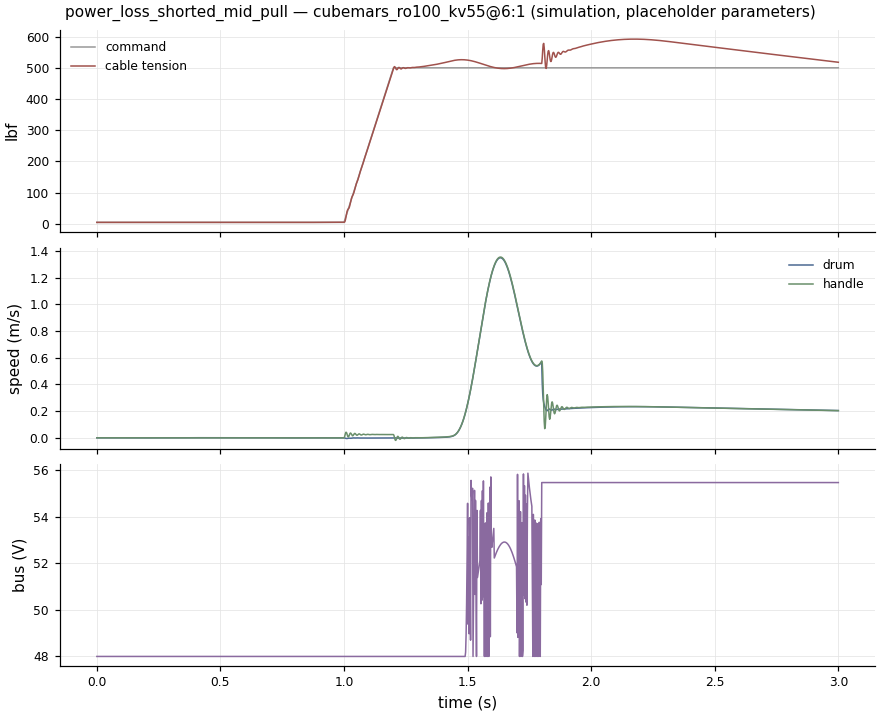
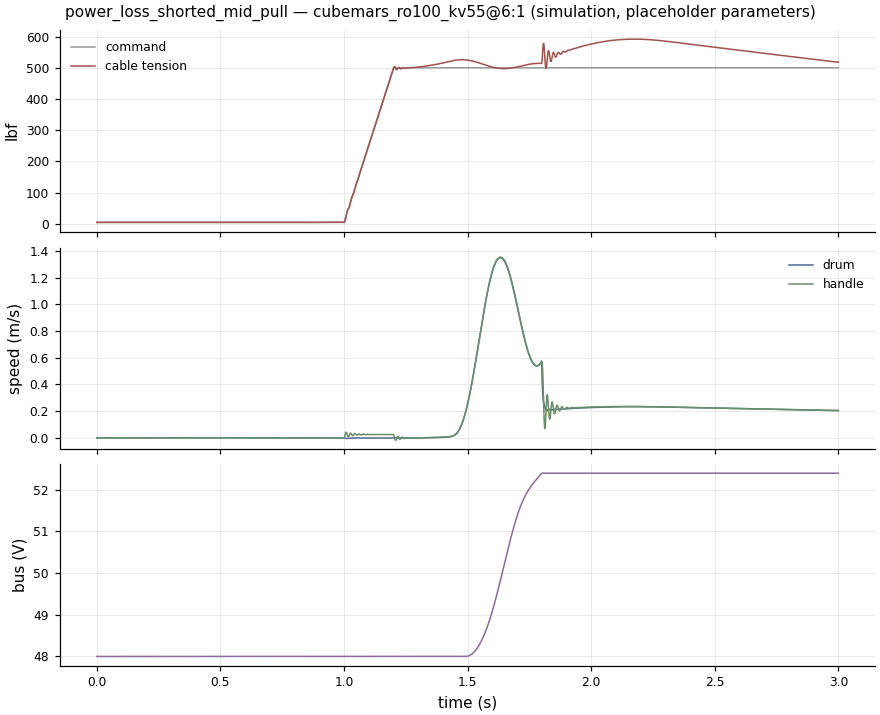
Iteration 2: 1 kW supply + 2 F supercapacitor buffer
A single RO100 at 500 lbf draws ~480 W mean (copper loss), so the
supply cannot shrink much below that. The buffer's value is tracking
and absorbing regeneration: 1 kW + 2 F keeps the bus at 42-56 V over a
full heavy set and cuts 500 lbf tracking error from 7.6% to 1.6%.
H-13 raised to S3 (about 3.1 kJ stored); buffer added to the BOM as
unpriced. Sweep results are recorded in ADR-001.

diff --git a/tests/test_dynamics.py b/tests/test_dynamics.py
@@ -59,11 +59,17 @@ def test_shorted_braking_force_scales_with_speed(setup):
 
 def test_bus_rises_without_dump_resistor(setup):
     inputs, plant = setup
-    m_with = run(dataclasses.replace(inputs.dynamics.cases[-1]), _traj_pull(), plant, inputs.dynamics)["metrics"]
-    m_without = run(Case("nd", "x", 3.0, "no_dump_resistor", 0.0, True), _traj_pull(), plant,
-                    inputs.dynamics)["metrics"]
-    assert m_without["peak_bus_v"] > inputs.dynamics.overvoltage_v
-    assert m_with["peak_bus_v"] <= inputs.dynamics.dump_on_v + 1.0
+    p = dataclasses.replace(inputs.dynamics, bus_c=0.002)  # plain bus capacitors, no buffer
+    m_with = run(dataclasses.replace(inputs.dynamics.cases[-1]), _traj_pull(), plant, p)["metrics"]
+    m_without = run(Case("nd", "x", 3.0, "no_dump_resistor", 0.0, True), _traj_pull(), plant, p)["metrics"]
+    assert m_without["peak_bus_v"] > p.overvoltage_v
+    assert m_with["peak_bus_v"] <= p.dump_on_v + 1.0
+
+
+def test_buffer_absorbs_regeneration(setup):
+    inputs, plant = setup
+    m = run(Case("nd", "x", 3.0, "no_dump_resistor", 0.0, True), _traj_pull(), plant, inputs.dynamics)["metrics"]
+    assert m["peak_bus_v"] < inputs.dynamics.overvoltage_v  # 2 F buffer holds a few reps of regen
 
 
 def _traj_pull():

diff --git a/reports/hazards.md b/reports/hazards.md
@@ -2,25 +2,25 @@
 
 > Generated by `make report`. Do not edit by hand. These are abstract simulation inputs and idealised metrics, not certification, not proof of feasibility, and not exercise or human-use guidance.
 
-Input hash: `d95b027a91dc2e13`
+Input hash: `32dc0bb8c4a8f25b`
 
 Source of truth: `requirements/hazards.yaml`. Severity levels are **proposed** qualitative categories (S1 nuisance … S4 severe or irreversible injury possible) for independent review. Evidence values come from the dynamic model for `cubemars_ro100_kv55@6:1` (placeholder parameters, A-016). Simulated mitigations are simulation-only; none is a validated safety function. **No human-loading experiment is authorized.**
 
 | ID | Hazard | Severity | Mitigation channel | Evidence | Gap |
 |---|---|---|---|---|---|
-| H-01 | Handle release under load (slingshot) | S4 | mechanical | release_at_500lbf.handle_end_stop_speed_m_s = 5.49; release_at_500lbf_speed_limit.handle_end_stop_speed_m_s = 5.49; release_at_500lbf.peak_tension_lbf = 3871 | Firmware measures cannot remove the stored cable energy, so a mechanical arrestor is required and unmodelled. The arm surrogate and cable stiffness are placeholders. |
+| H-01 | Handle release under load (slingshot) | S4 | mechanical | release_at_500lbf.handle_end_stop_speed_m_s = 5.49; release_at_500lbf_speed_limit.handle_end_stop_speed_m_s = 5.49; release_at_500lbf.peak_tension_lbf = 7971 | Firmware measures cannot remove the stored cable energy, so a mechanical arrestor is required and unmodelled. The arm surrogate and cable stiffness are placeholders. |
 | H-06 | Stuck-on or runaway torque (controller crash, wrong sign) | S4 | independent-hardware | not simulated | Not simulated yet. Needs a fault-injection case with frozen or inverted torque. |
-| H-09 | Cable or termination failure | S4 | mechanical | release_at_500lbf.peak_tension_lbf = 3871 | The rope is not selected, and the fatigue and bend-radius analysis is not done. |
+| H-09 | Cable or termination failure | S4 | mechanical | release_at_500lbf.peak_tension_lbf = 7971 | The rope is not selected, and the fatigue and bend-radius analysis is not done. |
 | H-10 | Anchor or mount failure | S4 | mechanical | not simulated | Substrate and anchor types are undefined. Snap loads exceed the static stall case. |
 | H-12 | Entanglement or pinch points | S4 | mechanical | not simulated | The enclosure is not designed. |
-| H-02 | Load cell fails low (stuck at zero) | S3 | independent-hardware | load_cell_stuck_zero.peak_tension_after_fault_lbf = 538; load_cell_stuck_zero.peak_hand_deviation_after_fault_m = 0.0844; load_cell_stuck_zero_monitored.peak_hand_deviation_after_fault_m = 1.16 | The disagreement monitor and the release detector conflict. A fault-handling policy that tells a sensor fault from a release is not yet defined. |
+| H-02 | Load cell fails low (stuck at zero) | S3 | independent-hardware | load_cell_stuck_zero.peak_tension_after_fault_lbf = 612; load_cell_stuck_zero.peak_hand_deviation_after_fault_m = 0.248; load_cell_stuck_zero_monitored.peak_hand_deviation_after_fault_m = 1.17 | The disagreement monitor and the release detector conflict. A fault-handling policy that tells a sensor fault from a release is not yet defined. |
 | H-03 | Loss of mains power mid-pull | S3 | independent-hardware | power_loss_open_mid_pull.peak_hand_deviation_after_fault_m = 1.16; power_loss_shorted_mid_pull.peak_hand_deviation_after_fault_m = 0.206; power_loss_shorted_mid_pull.peak_tension_after_fault_lbf = 592 | Shorted-phase braking ignores winding inductance (upper bound). Relay timing and contact ratings are unknown. |
-| H-04 | Regenerative overvoltage | S3 | independent-hardware | regen_no_dump_resistor.time_to_overvoltage_ms = 304; regen_no_dump_resistor.peak_bus_v = 965; tracking_fast_reversal.peak_bus_v = 56 | Fast reversals peak just under the 60 V line with the proposed resistor, so the margin is thin. Resistor thermal rating is not sized. |
-| H-05 | Supply undervoltage, torque dropout | S3 | independent-hardware | tracking_heavy_tempo.min_bus_v = 39.2; regen_with_dump_resistor.min_bus_v = 48 | Supply and buffer sizing are undecided, and the derating policy is undefined. |
+| H-04 | Regenerative overvoltage | S3 | independent-hardware | regen_no_dump_resistor.time_to_overvoltage_ms = —; regen_no_dump_resistor.peak_bus_v = 56.9; tracking_fast_reversal.peak_bus_v = 52.5 | Fast reversals peak just under the 60 V line with the proposed resistor, so the margin is thin. Resistor thermal rating is not sized. |
+| H-05 | Supply undervoltage, torque dropout | S3 | independent-hardware | tracking_heavy_tempo.min_bus_v = 42.2; regen_with_dump_resistor.min_bus_v = 48 | Supply and buffer sizing are undecided, and the derating policy is undefined. |
 | H-07 | Encoder or speed-sensor failure | S3 | firmware | not simulated | Not simulated yet. |
+| H-13 | Stored electrical energy | S3 | independent-hardware | not simulated | Bleed time, pre-charge, fusing and balancing are not designed. The buffer is sized in dynamics only. |
 | H-08 | Motor overtemperature | S2 | firmware | not simulated | The thermal model uses placeholder thermal data (A-015); see thermal.md for time-at-500-lbf. |
 | H-11 | Slack cable and snap at low force | S2 | firmware | tracking_low_force.tracking_rms_error_pct = 12.4; tracking_low_force.peak_tension_lbf = 10.6 | R-03 low-force control is currently not met in simulation. |
-| H-13 | Stored electrical energy | S2 | independent-hardware | not simulated | Buffer size not chosen. |
 
 ## H-01 — Handle release under load (slingshot) (S4)
 
@@ -159,13 +159,13 @@ Source of truth: `requirements/hazards.yaml`. Severity levels are **proposed** q
   - Speed and torque limits (firmware)
 - **Requirements:** R-09
 
-## H-13 — Stored electrical energy (S2)
+## H-13 — Stored electrical energy (S3)
 
-- **Cause:** Bus capacitors or an energy buffer remain charged after shutdown.
-- **Effect:** Shock or arc during service.
+- **Cause:** The 2 F supercapacitor buffer (about 3.1 kJ at 56 V) or the bus capacitors stay charged after shutdown.
+- **Effect:** Shock, arc or burn during service, and high fault current into a shorted drive.
 - **Mitigations:**
   - Bleed resistors and a discharge indicator (independent-hardware
   - not designed)
 - **Requirements:** R-06, R-09
 
-Summary: 5 S4, 5 S3, 3 S2, 0 S1. 6 hazards have no simulation evidence yet.
+Summary: 5 S4, 6 S3, 2 S2, 0 S1. 6 hazards have no simulation evidence yet.

diff --git a/reports/dynamics.md b/reports/dynamics.md
@@ -2,7 +2,7 @@
 
 > Generated by `make report`. Do not edit by hand. These are abstract simulation inputs and idealised metrics, not certification, not proof of feasibility, and not exercise or human-use guidance.
 
-Input hash: `d95b027a91dc2e13`
+Input hash: `32dc0bb8c4a8f25b`
 
 Time-domain model: stretchy cable that can go slack, drum with reflected inertia, gear efficiency, friction, a lagging current loop, delayed and noisy sensors, an arm surrogate, a tension controller (feedforward, slow PI, friction and inertia compensation) and the DC bus with a braking resistor. Every parameter is a placeholder (A-016), and every safety value is a proposal for review (A-017). **Simulation only. Nothing here validates a safety function.**
 
@@ -12,33 +12,33 @@ Columns: tracking error is RMS tension error before any fault (after 1 s for fau
 
 | Case | Fault (at s) | Safety layer | Peak tension lbf | Tracking error % | Hand lurch m | End-stop speed m/s | Peak retract m/s | Peak bus V | To overvoltage ms | Min bus V | Release latched | Monitor tripped |
 |---|---|---|---:|---:|---:|---:|---:|---:|---:|---:|---:|---:|
-| tracking_heavy_tempo | none | on | 563 | 7.1 | — | — | 0.3 | 56 | — | 39 | no | no |
-| tracking_low_force | none | on | 11 | 12.4 | — | — | 0.6 | 56 | — | 48 | no | no |
-| tracking_fast_reversal | none | on | 306 | 28.0 | — | — | 1.3 | 56 | — | 39 | no | no |
-| release_at_500lbf | handle_release (2.6) | off | 3871 | 2.6 | — | 5.5 | 5.5 | 63 | 376 | 30 | no | no |
-| release_at_500lbf_speed_limit | handle_release (2.6) | on | 932 | 2.6 | — | 5.5 | 5.5 | 56 | — | 38 | yes | no |
-| load_cell_stuck_zero | load_cell_zero (2.6) | off | 538 | 2.6 | 0.08 | — | 0.2 | 56 | — | 40 | no | no |
-| load_cell_stuck_zero_monitored | load_cell_zero (2.6) | on | 526 | 2.6 | 1.16 | — | 0.6 | 56 | — | 36 | yes | yes |
-| power_loss_open_mid_pull | power_loss_open (1.8) | on | 526 | 3.8 | 1.16 | — | 0.3 | 56 | — | 48 | yes | no |
-| power_loss_shorted_mid_pull | power_loss_shorted (1.8) | on | 592 | 3.8 | 0.21 | — | 0.0 | 56 | — | 48 | no | no |
-| regen_no_dump_resistor | no_dump_resistor (1.2) | on | 526 | 2.0 | 0.06 | — | 0.0 | 965 | 304 | 48 | no | no |
+| tracking_heavy_tempo | none | on | 534 | 1.6 | — | — | 0.5 | 56 | — | 42 | no | no |
+| tracking_low_force | none | on | 11 | 12.4 | — | — | 0.6 | 48 | — | 48 | no | no |
+| tracking_fast_reversal | none | on | 311 | 28.9 | — | — | 1.3 | 52 | — | 48 | no | no |
+| release_at_500lbf | handle_release (2.6) | off | 7971 | 2.6 | — | 5.5 | 7.8 | 56 | — | 40 | no | no |
+| release_at_500lbf_speed_limit | handle_release (2.6) | on | 932 | 2.6 | — | 5.5 | 5.5 | 56 | — | 48 | yes | no |
+| load_cell_stuck_zero | load_cell_zero (2.6) | off | 612 | 2.6 | 0.25 | — | 0.9 | 56 | — | 46 | no | no |
+| load_cell_stuck_zero_monitored | load_cell_zero (2.6) | on | 526 | 2.6 | 1.17 | — | 0.7 | 56 | — | 47 | yes | yes |
+| power_loss_open_mid_pull | power_loss_open (1.8) | on | 526 | 3.8 | 1.16 | — | 0.3 | 52 | — | 48 | yes | no |
+| power_loss_shorted_mid_pull | power_loss_shorted (1.8) | on | 592 | 3.8 | 0.21 | — | 0.0 | 52 | — | 48 | no | no |
+| regen_no_dump_resistor | no_dump_resistor (1.2) | on | 526 | 2.0 | 0.06 | — | 0.0 | 57 | — | 48 | no | no |
 | regen_with_dump_resistor | none | on | 526 | 2.0 | — | — | 0.0 | 56 | — | 48 | no | no |
 
 ## 2x cubemars_ro100_kv55@6:1
 
 | Case | Fault (at s) | Safety layer | Peak tension lbf | Tracking error % | Hand lurch m | End-stop speed m/s | Peak retract m/s | Peak bus V | To overvoltage ms | Min bus V | Release latched | Monitor tripped |
 |---|---|---|---:|---:|---:|---:|---:|---:|---:|---:|---:|---:|
-| tracking_heavy_tempo | none | on | 546 | 4.5 | — | — | 0.4 | 56 | — | 39 | no | no |
-| tracking_low_force | none | on | 338 | 287.6 | — | — | 1.8 | 56 | — | 40 | no | no |
-| tracking_fast_reversal | none | on | 325 | 46.2 | — | — | 1.5 | 58 | — | 38 | no | no |
-| release_at_500lbf | handle_release (2.6) | off | 4268 | 4.3 | — | 5.5 | 5.5 | 68 | 473 | 32 | no | no |
-| release_at_500lbf_speed_limit | handle_release (2.6) | on | 1261 | 4.3 | — | 5.5 | 5.5 | 56 | — | 38 | yes | no |
-| load_cell_stuck_zero | load_cell_zero (2.6) | off | 574 | 4.3 | 0.16 | — | 0.3 | 56 | — | 39 | no | no |
-| load_cell_stuck_zero_monitored | load_cell_zero (2.6) | on | 530 | 4.3 | 1.15 | — | 0.5 | 56 | — | 34 | yes | yes |
-| power_loss_open_mid_pull | power_loss_open (1.8) | on | 530 | 4.7 | 1.15 | — | 0.3 | 56 | — | 48 | yes | no |
-| power_loss_shorted_mid_pull | power_loss_shorted (1.8) | on | 591 | 4.7 | 0.20 | — | 0.0 | 56 | — | 48 | no | no |
-| regen_no_dump_resistor | no_dump_resistor (1.2) | on | 530 | 2.0 | 0.08 | — | 0.4 | 1072 | 302 | 48 | no | no |
-| regen_with_dump_resistor | none | on | 530 | 3.0 | — | — | 0.3 | 56 | — | 40 | no | no |
+| tracking_heavy_tempo | none | on | 530 | 2.1 | — | — | 0.7 | 56 | — | 45 | no | no |
+| tracking_low_force | none | on | 338 | 260.2 | — | — | 1.8 | 52 | — | 46 | no | no |
+| tracking_fast_reversal | none | on | 328 | 75.3 | — | — | 1.9 | 54 | — | 47 | yes | no |
+| release_at_500lbf | handle_release (2.6) | off | 7720 | 4.2 | — | 5.5 | 5.5 | 56 | — | 40 | no | no |
+| release_at_500lbf_speed_limit | handle_release (2.6) | on | 1322 | 4.2 | — | 5.5 | 5.5 | 56 | — | 48 | yes | yes |
+| load_cell_stuck_zero | load_cell_zero (2.6) | off | 701 | 4.2 | 0.44 | — | 3.1 | 56 | — | 40 | no | no |
+| load_cell_stuck_zero_monitored | load_cell_zero (2.6) | on | 530 | 4.2 | 1.16 | — | 0.6 | 56 | — | 40 | yes | yes |
+| power_loss_open_mid_pull | power_loss_open (1.8) | on | 530 | 4.7 | 1.15 | — | 0.3 | 54 | — | 48 | yes | no |
+| power_loss_shorted_mid_pull | power_loss_shorted (1.8) | on | 591 | 4.7 | 0.20 | — | 0.0 | 54 | — | 48 | no | no |
+| regen_no_dump_resistor | no_dump_resistor (1.2) | on | 530 | 2.0 | 0.08 | — | 0.4 | 59 | — | 48 | no | no |
+| regen_with_dump_resistor | none | on | 530 | 2.9 | — | — | 0.4 | 56 | — | 48 | no | no |
 
 Figures below are for `cubemars_ro100_kv55@6:1`.
 

diff --git a/reports/economics.md b/reports/economics.md
@@ -2,7 +2,7 @@
 
 > Generated by `make report`. Do not edit by hand. These are abstract simulation inputs and idealised metrics, not certification, not proof of feasibility, and not exercise or human-use guidance.
 
-Input hash: `d95b027a91dc2e13`
+Input hash: `32dc0bb8c4a8f25b`
 
 Design: `cubemars_ro100_kv55@6:1`. Prices are cited one-off retail prices only (`data/bom.csv`). Unpriced lines are counted, never estimated, and currencies are not converted. Retail scenarios use a single BOM multiplier (A-019).
 
@@ -26,8 +26,9 @@ Design: `cubemars_ro100_kv55@6:1`. Prices are cited one-off retail prices only (
 | Enclosure and guards | 1 | unpriced | — | Not designed | — |
 | Handle and attachment | 1 | unpriced | — | Not yet sourced | — |
 | Wiring; connectors; fuses; mains inlet; switch | 1 | unpriced | — | Not yet sourced | — |
+| Supercapacitor bank >= 2 F at >= 60 V with balancing and pre-charge | 1 | unpriced | — | Not yet sourced; sized in dynamics (1 kW supply + 2 F) | — |
 
-**Known cost so far:** 588.80 USD + 32.47 GBP, from 4 of 18 lines. 14 lines are unpriced, so this is a floor, not a BOM.
+**Known cost so far:** 588.80 USD + 32.47 GBP, from 4 of 19 lines. 15 lines are unpriced, so this is a floor, not a BOM.
 
 | BOM → retail multiplier (A-019) | Retail implied by the known floor | Largest BOM that fits $500 retail |
 |---:|---:|---:|

diff --git a/reports/structure.md b/reports/structure.md
@@ -2,7 +2,7 @@
 
 > Generated by `make report`. Do not edit by hand. These are abstract simulation inputs and idealised metrics, not certification, not proof of feasibility, and not exercise or human-use guidance.
 
-Input hash: `d95b027a91dc2e13`
+Input hash: `32dc0bb8c4a8f25b`
 
 Design: `cubemars_ro100_kv55@6:1`. Design load case: **motor stall at peak torque**, with yield safety factor 2. Hand calculations only (A-018): simply supported shaft, belt pull taken as twice the effective pull, and every load assumed to act in the same direction. **Needs FEA and independent review (R-08).**
 
@@ -20,6 +20,6 @@ Design: `cubemars_ro100_kv55@6:1`. Design load case: **motor stall at peak torqu
 | Total reaction into the frame | 4443 N |
 | Tension per anchor bolt (4 bolts) | 1267 N |
 | Peak tension, dynamic fault cases with safety layer on | 932 lbf |
-| Peak tension, any dynamic case incl. unprotected | 3871 lbf |
+| Peak tension, any dynamic case incl. unprotected | 7971 lbf |
 
 When a dynamic peak exceeds the static stall tension, the snap loads come from the cable's stored energy and the drum's momentum, not from motor torque. Static stall sizing does not cover them, so they need a mechanical end stop or damper and their own load case.

diff --git a/docs/architecture-decisions/ADR-001-iteration-2-targets.md b/docs/architecture-decisions/ADR-001-iteration-2-targets.md
@@ -10,3 +10,13 @@ Decided by the project owner after the first simulation pass (see `reports/STATU
 | Energy buffer | Supercapacitors allowed (still no battery operation) | Smaller supply sized near session-mean power. Adds stored-energy hazard H-13 |
 
 Status: accepted. Supersedes the open questions in the first-iteration status report.
+
+## Follow-up: supply and buffer sizing (iteration 2)
+
+With one RO100, copper loss at 500 lbf makes the mean bus draw about 480 W over a heavy-tempo set, so no buffer lets the supply shrink far below that. Sweep results (dynamic model, full 5-rep set):
+
+- 1 kW supply, no buffer: the bus dips to the 40 V lockout and tracking error is 7.6%.
+- 1 kW supply with 2 F: the bus stays at 42-56 V and tracking error is 1.6%. **Chosen.**
+- 800 W supply needs about 4 F for the same result.
+
+The buffer's value is tracking quality and absorbing regeneration, not a much smaller supply.

diff --git a/reports/components.md b/reports/components.md
@@ -2,7 +2,7 @@
 
 > Generated by `make report`. Do not edit by hand. These are abstract simulation inputs and idealised metrics, not certification, not proof of feasibility, and not exercise or human-use guidance.
 
-Input hash: `d95b027a91dc2e13`
+Input hash: `32dc0bb8c4a8f25b`
 
 Real parts with cited data (`data/components.csv`), each run through the WP2 drivetrain model on every scenario. Drum geometry is reused from `B_quasi_direct` (A-008). Gear efficiencies are placeholders: 0.95 for an external stage, 0.9 for an integrated one (A-013). Copper loss uses A-014. Blank source fields are shown as *not stated* and never estimated.
 

diff --git a/reports/thermal.md b/reports/thermal.md
@@ -2,7 +2,7 @@
 
 > Generated by `make report`. Do not edit by hand. These are abstract simulation inputs and idealised metrics, not certification, not proof of feasibility, and not exercise or human-use guidance.
 
-Input hash: `d95b027a91dc2e13`
+Input hash: `32dc0bb8c4a8f25b`
 
 Two-node model (winding, housing) per motor, starting cold at 25 °C, limit 120 °C. Thermal resistance is backed out from each motor's rated continuous torque, and heat capacity comes from its mass (A-015). With natural convection only, every number here inherits the vendor's unstated rating conditions. Treat these as rough estimates, not limits.
 

diff --git a/reports/drivetrain_baseline.md b/reports/drivetrain_baseline.md
@@ -2,7 +2,7 @@
 
 > Generated by `make report`. Do not edit by hand. These are abstract simulation inputs and idealised metrics, not certification, not proof of feasibility, and not exercise or human-use guidance.
 
-Input hash: `d95b027a91dc2e13`
+Input hash: `32dc0bb8c4a8f25b`
 
 What each **illustrative** architecture (A-008) would demand of a motor and power stage for each duty cycle. A rigid lumped model (A-009) with copper loss only (A-010), evaluated at 100 °C. Thermal figures are worst 60 s moving-window values (A-012). No motor is selected, so nothing here says any architecture is feasible.
 

diff --git a/reports/duty_cycles.md b/reports/duty_cycles.md
@@ -2,7 +2,7 @@
 
 > Generated by `make report`. Do not edit by hand. These are abstract simulation inputs and idealised metrics, not certification, not proof of feasibility, and not exercise or human-use guidance.
 
-Input hash: `d95b027a91dc2e13`
+Input hash: `32dc0bb8c4a8f25b`
 
 Generated with odrt 0.1.0, Python 3.9.12, NumPy 1.26.4. Sample rate 1000 Hz, tension ramp 0.2 s, rest tension 5 lbf, under-tension threshold 6 lbf.
 

diff --git a/reports/traceability.md b/reports/traceability.md
@@ -2,7 +2,7 @@
 
 > Generated by `make report`. Do not edit by hand. These are abstract simulation inputs and idealised metrics, not certification, not proof of feasibility, and not exercise or human-use guidance.
 
-Input hash: `d95b027a91dc2e13`
+Input hash: `32dc0bb8c4a8f25b`
 
 | ID | Requirement | Status | Scenarios | Assumptions |
 |---|---|---|---|---|

diff --git a/reports/assumptions.md b/reports/assumptions.md
@@ -2,7 +2,7 @@
 
 > Generated by `make report`. Do not edit by hand. These are abstract simulation inputs and idealised metrics, not certification, not proof of feasibility, and not exercise or human-use guidance.
 
-Input hash: `d95b027a91dc2e13`
+Input hash: `32dc0bb8c4a8f25b`
 
 Source of truth: `requirements/assumptions.yaml`.
 
